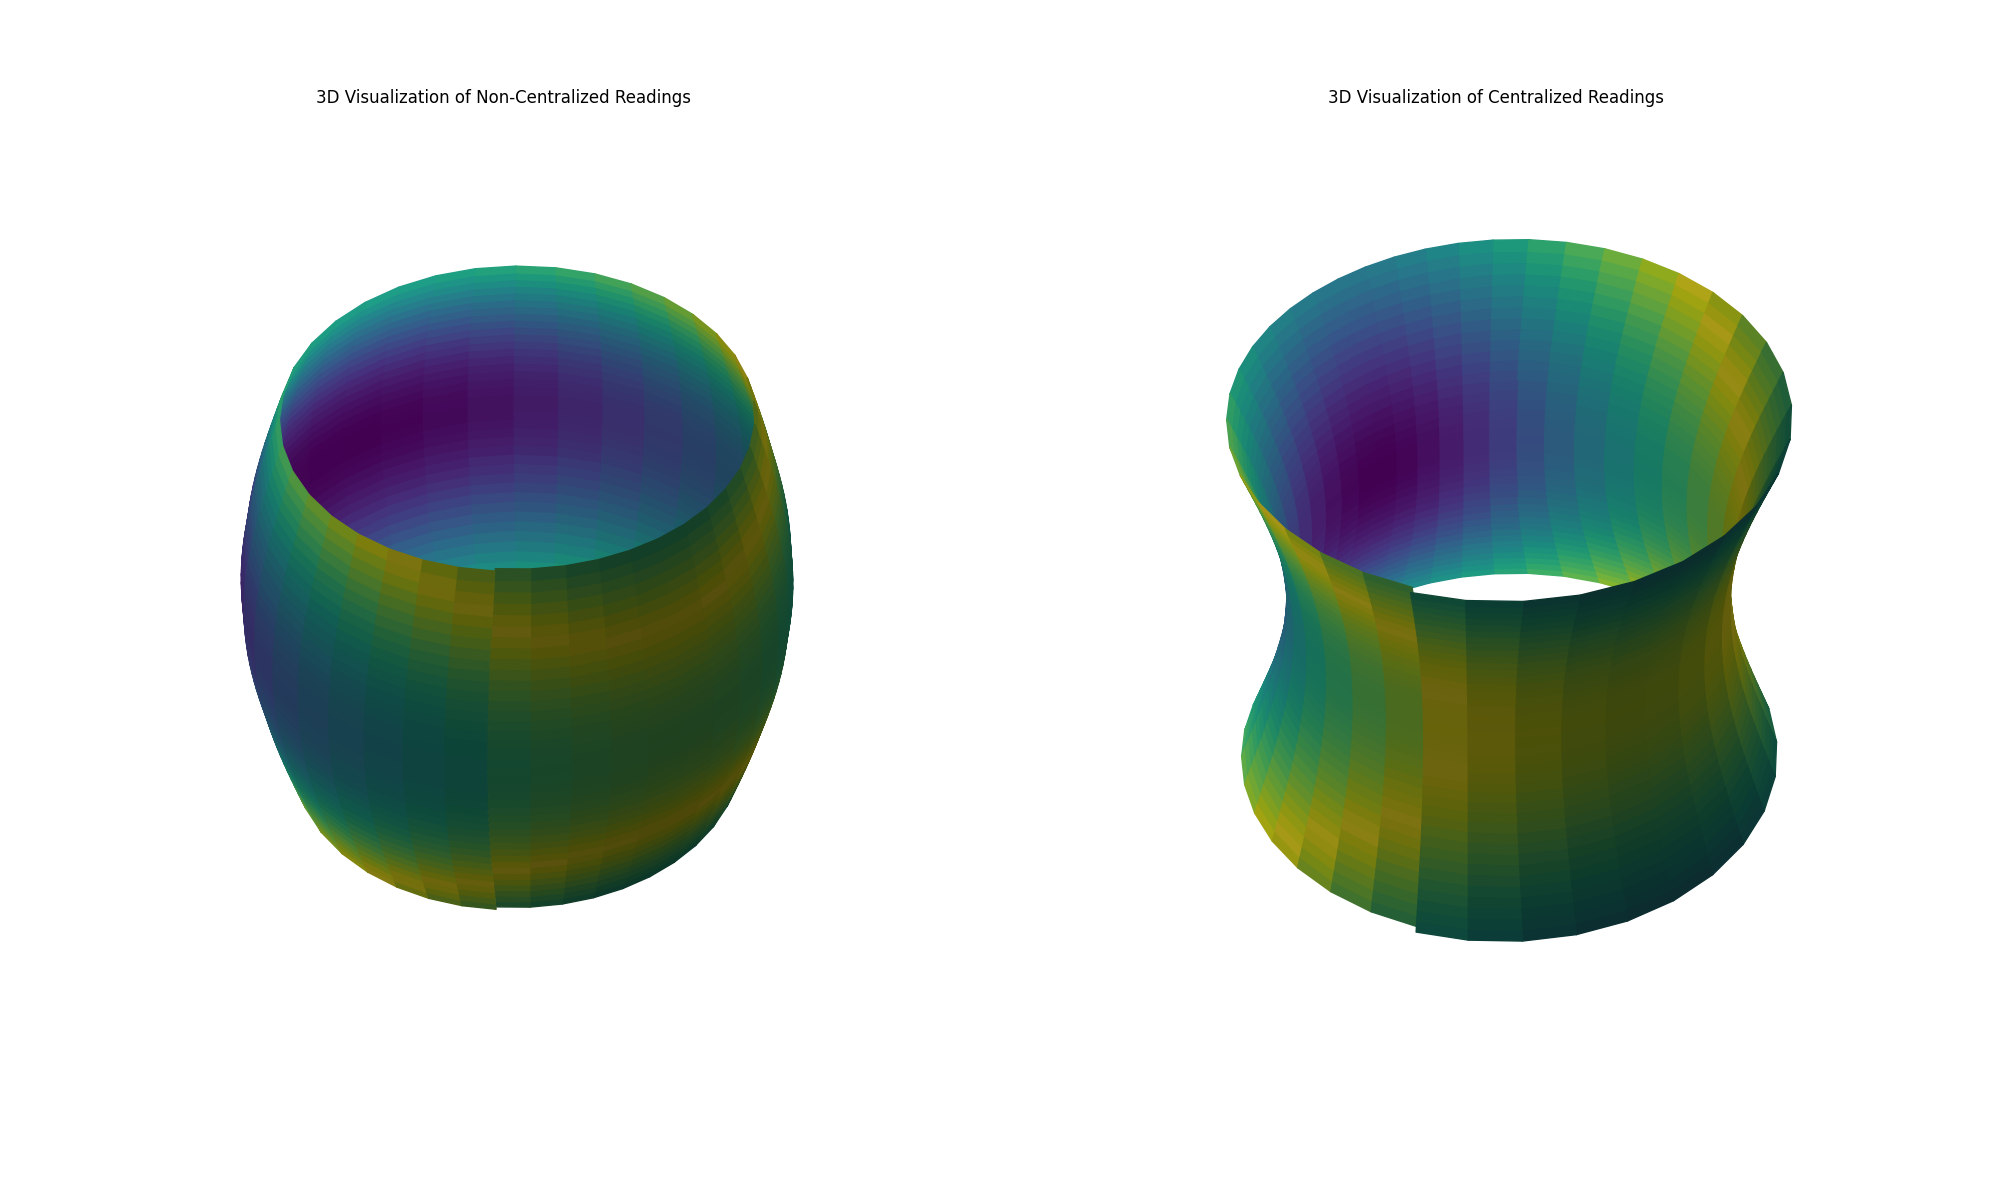
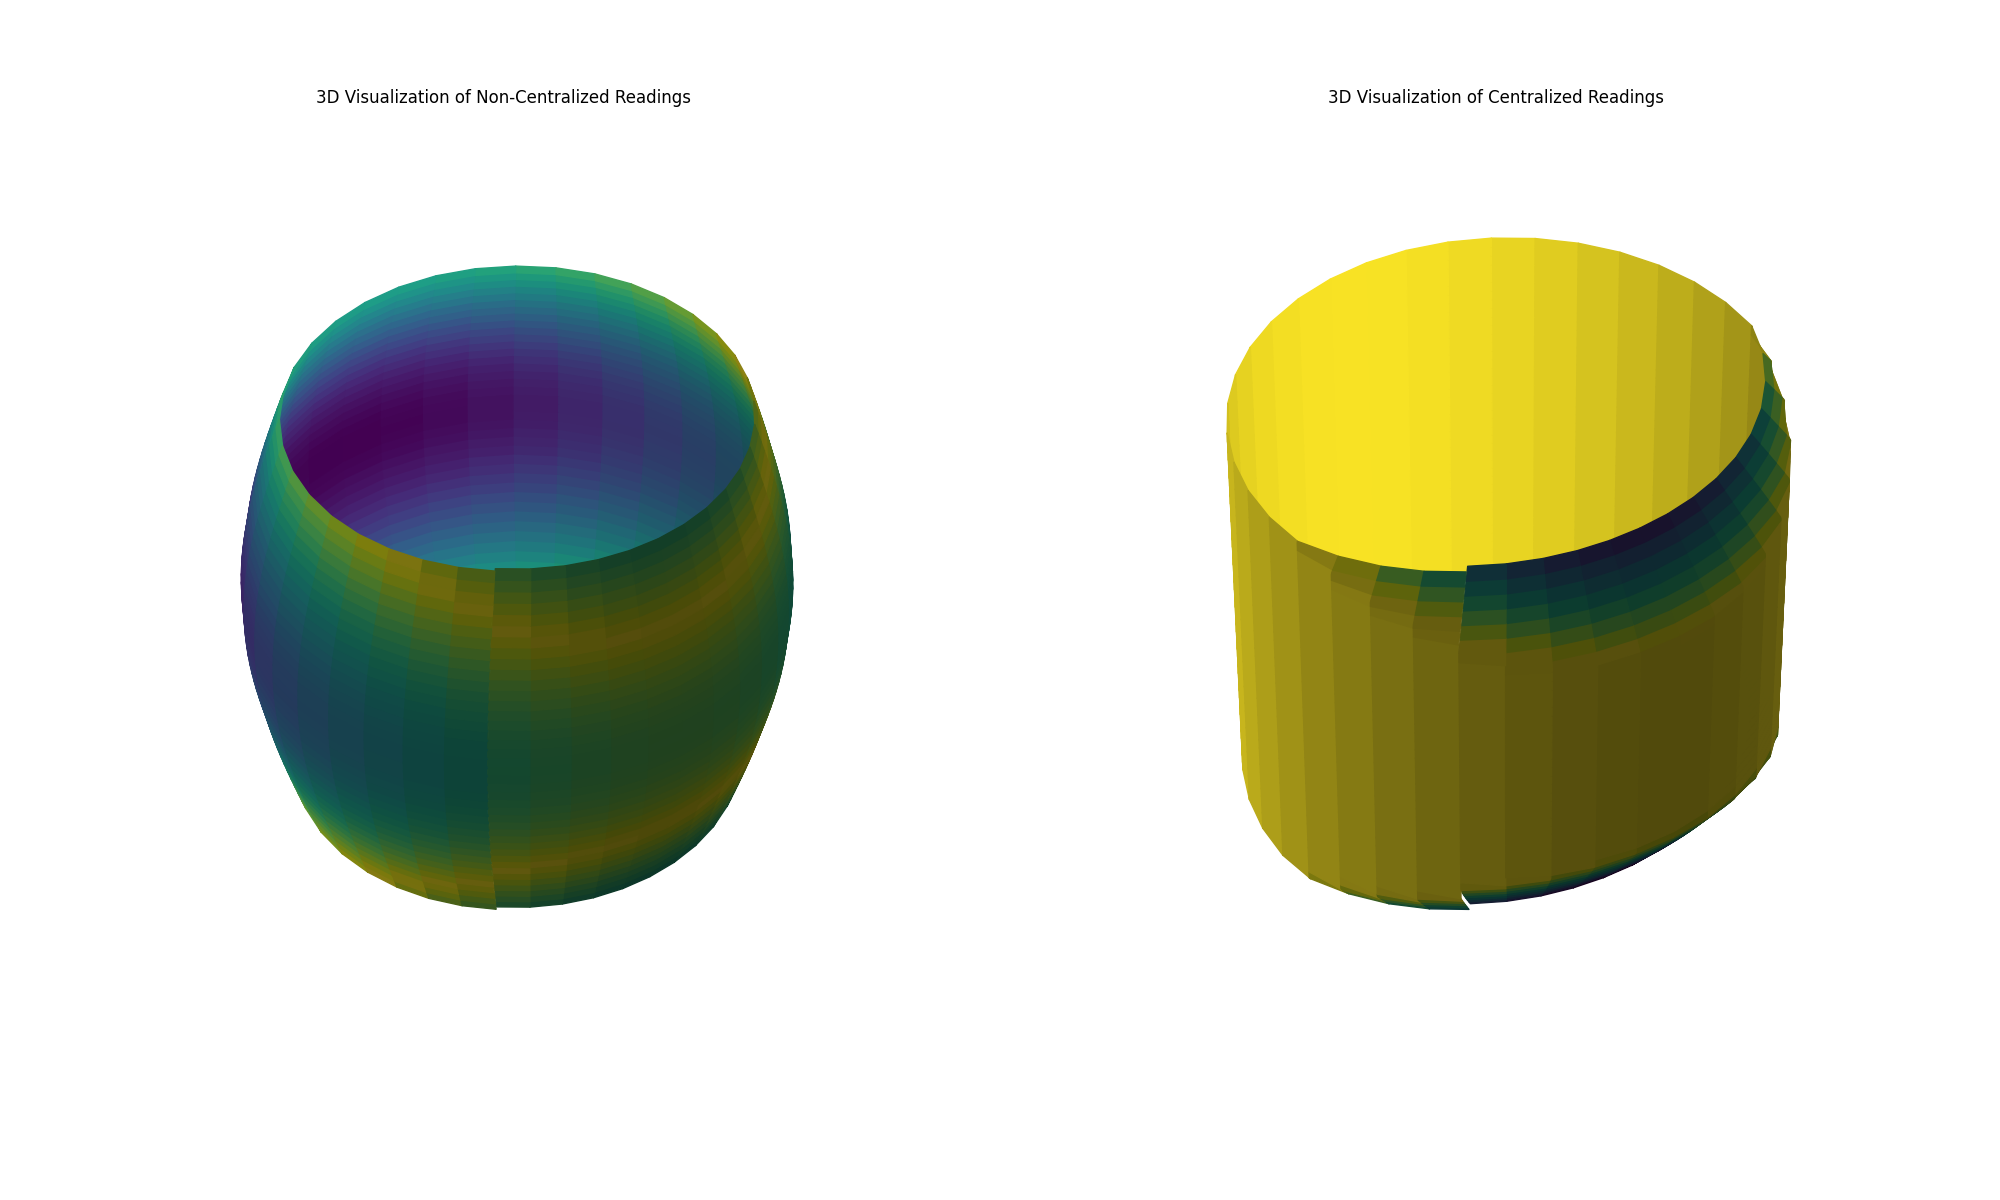
trying

Changed region(s): [[0.589, 0.185, 0.899, 0.8017]]

diff --git a/mit.cpp b/mit.cpp
@@ -122,8 +122,8 @@ point mit::calculate_offset_vector_of_sample(const int depth)
         result_offset_vector.x += diff_vector.x;
         result_offset_vector.y += diff_vector.y;
     }
-    result_offset_vector.x /= no_of_fingers;
-    result_offset_vector.y /= no_of_fingers;
+    result_offset_vector.x /= 2;
+    result_offset_vector.y /= 2;
 
     return result_offset_vector;
 }
@@ -137,23 +137,20 @@ void mit::centralize_readings(const point offset_vector)
     {
         for (size_t finger = 0; finger < readings[0].size(); finger++)
         {
+            // Get f and h, then do f-h
+            double f_dist = readings[depth][finger].distance;
 
-            // Expected contact point w.r.t. pipe center
-            point expected_contact_point_from_center{0, 0};
-            expected_contact_point_from_center.x = pipe_center.x + cos_values[finger] * pipe_radius;
-            expected_contact_point_from_center.y = pipe_center.y + sin_values[finger] * pipe_radius;
+            double h_dist = 0;
+            point a_prime{0, 0};
+            a_prime.x = pipe_center.x + cos_values[finger] * f_dist;
+            a_prime.y = pipe_center.y + sin_values[finger] * f_dist;
+            point a_prime_expected{0, 0};
+            a_prime_expected.x = pipe_center.x + cos_values[finger] * pipe_radius;
+            a_prime_expected.y = pipe_center.y + sin_values[finger] * pipe_radius;
+            h_dist = calculate_distance(a_prime, a_prime_expected);
+            double b = f_dist - h_dist;
 
-            // Translate so that it is aligned with pipe center
-            expected_contact_point_from_center.x -= offset_vector.x;
-            expected_contact_point_from_center.y -= offset_vector.y;
-
-            // Finger distance correction
-            double reading_distance_from_tool_center = readings[depth][finger].distance;
-            double expected_distance_from_pipe_center = calculate_distance(expected_contact_point_from_center, pipe_center);
-            double difference = reading_distance_from_tool_center - expected_distance_from_pipe_center;
-
-            // Update reading
-            readings[depth][finger].centralized_distance = expected_distance_from_pipe_center - difference;
+            readings[depth][finger].centralized_distance = b;
             readings[depth][finger].is_centralized = true;
         }
     }

diff --git a/mit.h b/mit.h
@@ -24,10 +24,8 @@ struct point
 struct reading
 {
     double distance;             // Distance reading from the finger
-    point contact_point;         // Contact point w.r.t. the tool
     double centralized_distance; // Distance reading from the finger after centralization
     bool is_centralized = false; // Flag to indicate if the reading is centralized
-    // double angle;             // Angle of the finger w.r.t. the center of the pipe
 };
 
 class mit

diff --git a/utils.cpp b/utils.cpp
@@ -7,3 +7,8 @@ double calculate_distance(point a, point b)
     double dy = b.y - a.y;
     return sqrt(dx * dx + dy * dy);
 }
+
+double calculate_vector_length(point a)
+{
+    return sqrt(a.x * a.x + a.y * a.y);
+}

diff --git a/utils.h b/utils.h
@@ -8,5 +8,6 @@
 struct point;
 
 double calculate_distance(point a, point b);
+double calculate_vector_length(point a);
 
 #endif
